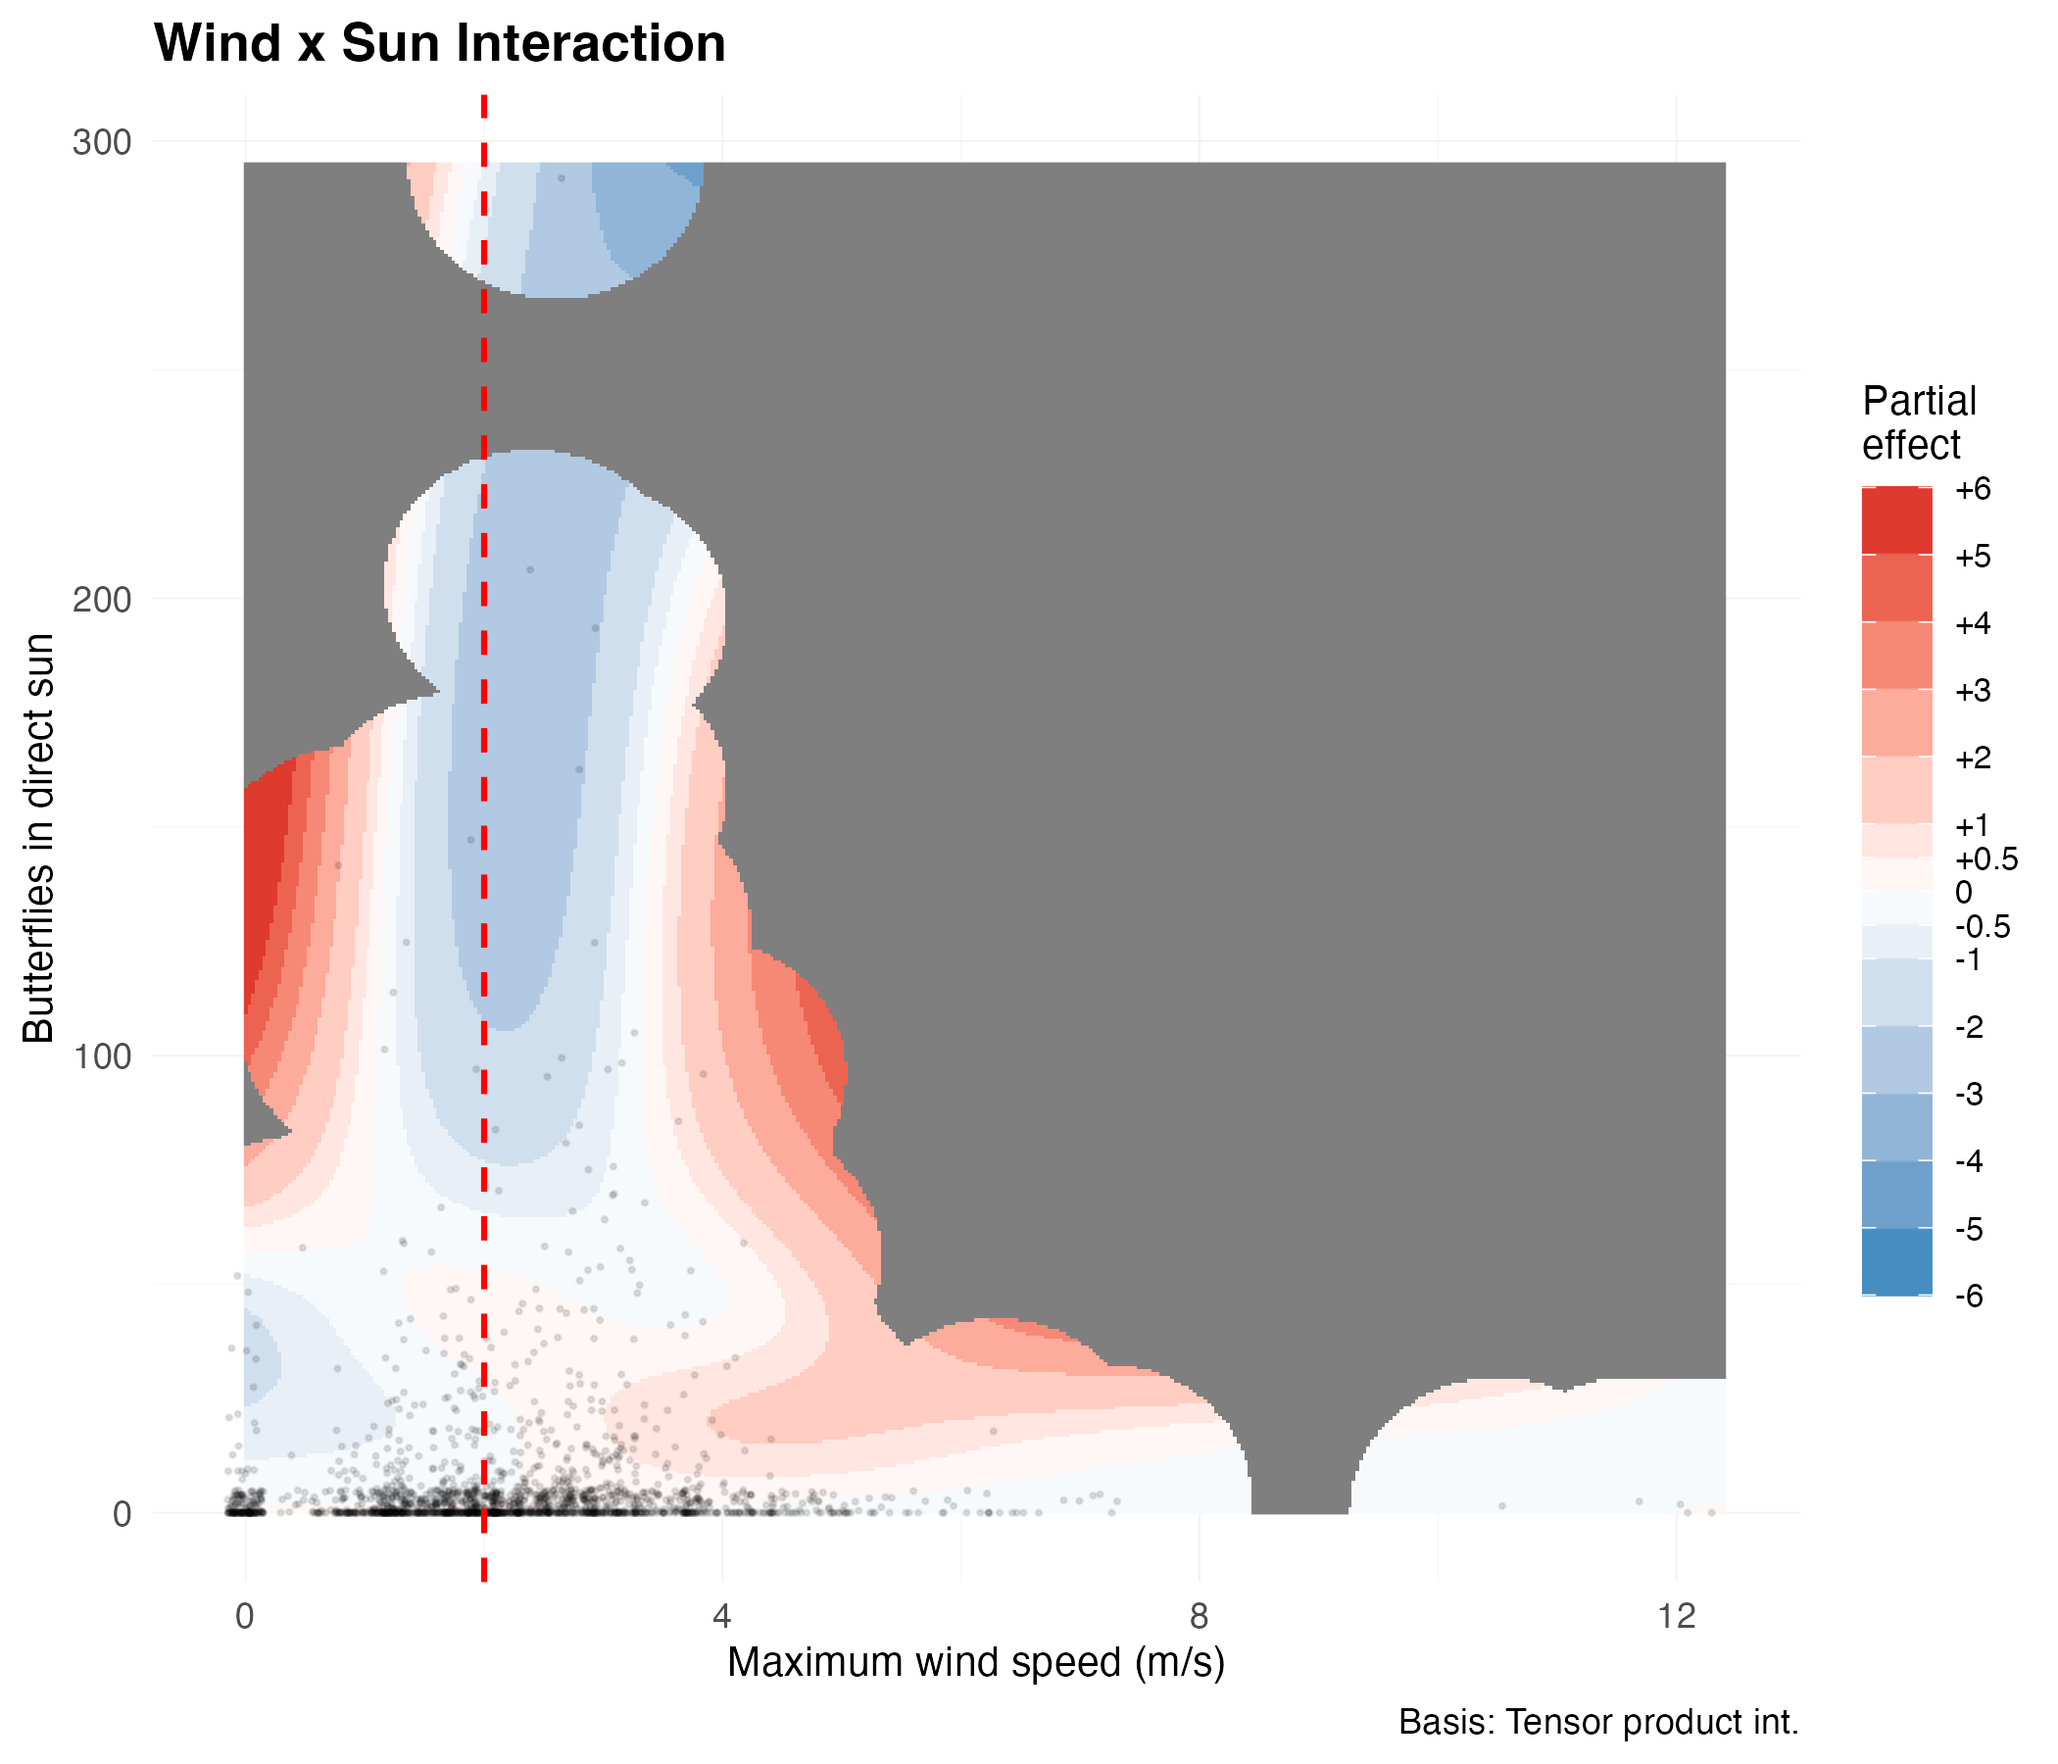
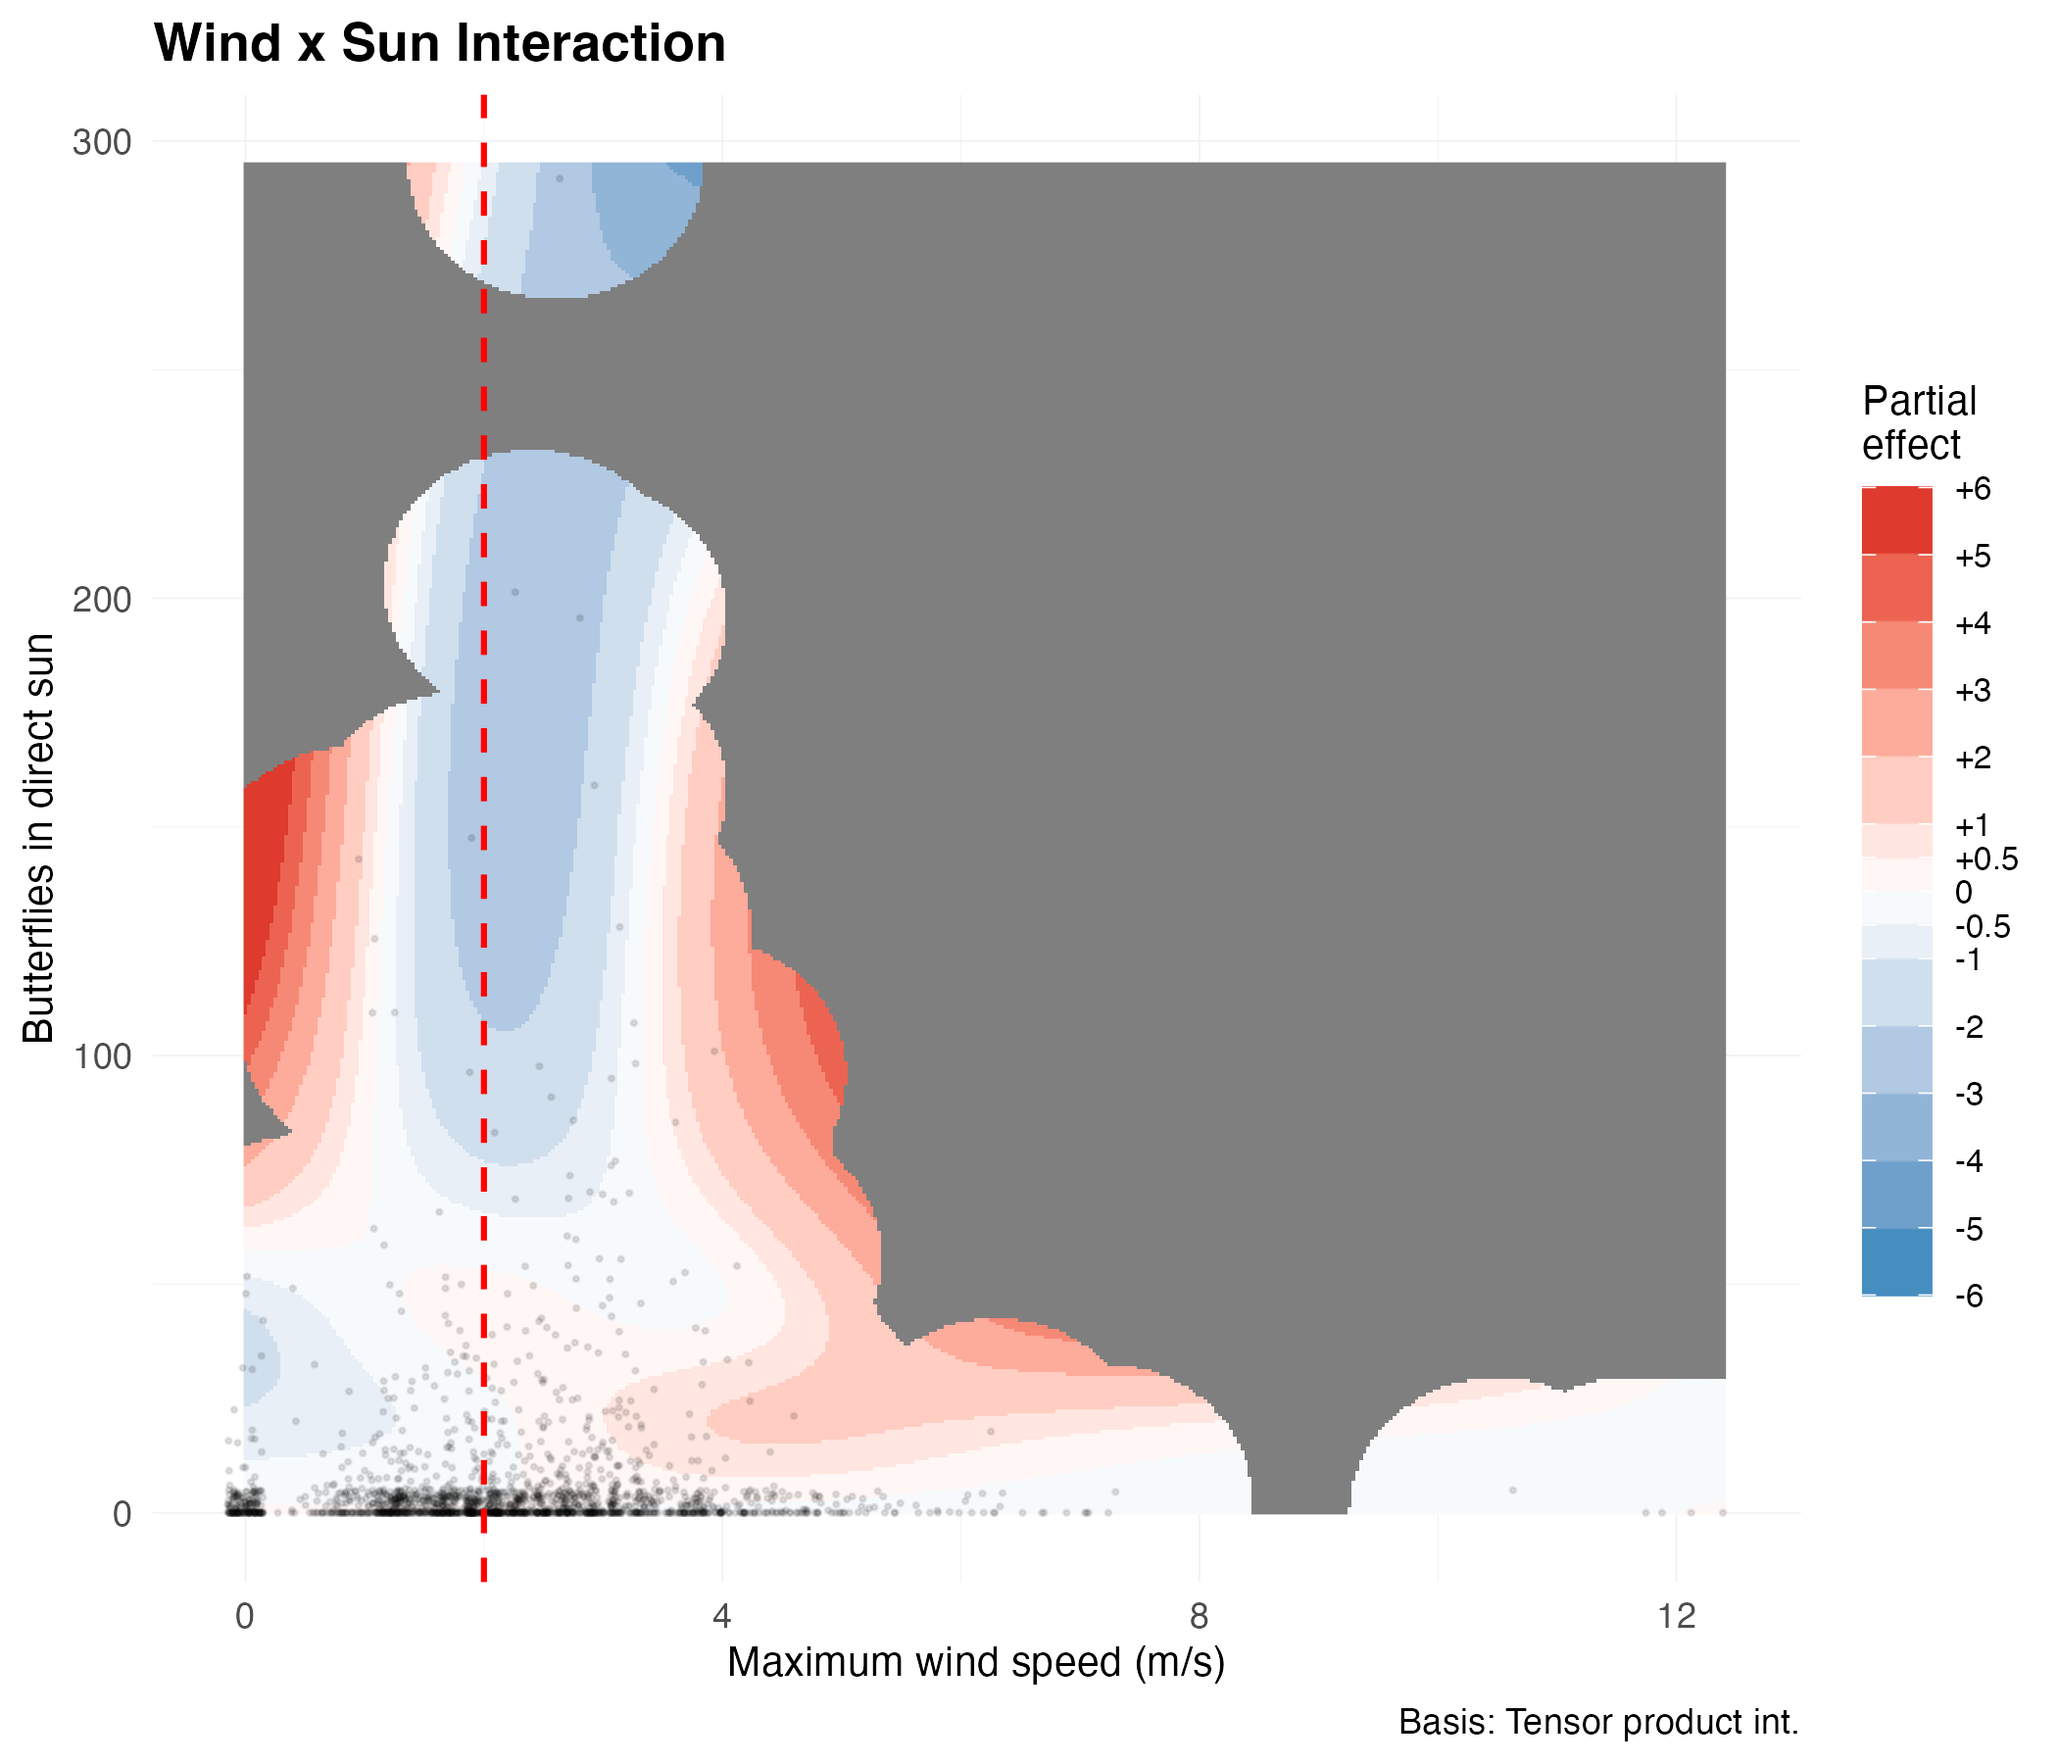
fix bullet points in tables

Changed region(s): [[0.0929, 0.7156, 0.4952, 0.8711]]

diff --git a/thesis_exports/30_min/tables/top5_models.tex b/thesis_exports/30_min/tables/top5_models.tex
@@ -6,11 +6,11 @@
 \toprule
 Model & Terms & AIC & Delta_AIC & Weight & Wind_p\\
 \midrule
-M50 & \textbullet\ Previous butterfly count\\ \textbullet\ Temperature\\ \textbullet\ Time since sunrise\\ \textbullet\ Interaction (tensor): Maximum wind speed, Butterflies in direct sun & 8074.029 & 0.000 & 0.8579 & 5.55e-05\\
-M23 & \textbullet\ Previous butterfly count\\ \textbullet\ Temperature\\ \textbullet\ Butterflies in direct sun\\ \textbullet\ Time since sunrise & 8077.862 & 3.834 & 0.1262 & NA\\
-M22 & \textbullet\ Previous butterfly count\\ \textbullet\ Temperature (linear)\\ \textbullet\ Butterflies in direct sun\\ \textbullet\ Time since sunrise & 8082.898 & 8.869 & 0.0102 & NA\\
-M24 & \textbullet\ Previous butterfly count\\ \textbullet\ Maximum wind speed\\ \textbullet\ Temperature\\ \textbullet\ Butterflies in direct sun\\ \textbullet\ Time since sunrise & 8084.049 & 10.020 & 0.0057 & 2.18e-01\\
-M52 & \textbullet\ Temperature\\ \textbullet\ Time since sunrise\\ \textbullet\ Interaction (tensor): Maximum wind speed, Butterflies in direct sun & 8092.722 & 18.693 & 0.0001 & 1.13e-05\\
+M50 & Previous butterfly count, Temperature, Time since sunrise, Interaction (tensor): Maximum wind speed, Butterflies in direct sun & 8074.029 & 0.000 & 0.8579 & 5.55e-05\\
+M23 & Previous butterfly count, Temperature, Butterflies in direct sun, Time since sunrise & 8077.862 & 3.834 & 0.1262 & NA\\
+M22 & Previous butterfly count, Temperature (linear), Butterflies in direct sun, Time since sunrise & 8082.898 & 8.869 & 0.0102 & NA\\
+M24 & Previous butterfly count, Maximum wind speed, Temperature, Butterflies in direct sun, Time since sunrise & 8084.049 & 10.020 & 0.0057 & 2.18e-01\\
+M52 & Temperature, Time since sunrise, Interaction (tensor): Maximum wind speed, Butterflies in direct sun & 8092.722 & 18.693 & 0.0001 & 1.13e-05\\
 \bottomrule
 \end{tabular}
 \end{table}

diff --git a/thesis_exports/30_min_threshold/tables/top5_models.tex b/thesis_exports/30_min_threshold/tables/top5_models.tex
@@ -6,11 +6,11 @@
 \toprule
 Model & Terms & AIC & Delta_AIC & Weight & Wind_p\\
 \midrule
-T50 & \textbullet\ Previous butterfly count\\ \textbullet\ Temperature\\ \textbullet\ Time since sunrise\\ \textbullet\ Interaction (tensor): Minutes above 2 m/s, Butterflies in direct sun & 8077.232 & 0.000 & 0.5539 & 0.000102\\
-T23 & \textbullet\ Previous butterfly count\\ \textbullet\ Temperature\\ \textbullet\ Butterflies in direct sun\\ \textbullet\ Time since sunrise & 8077.862 & 0.631 & 0.4041 & NA\\
-T22 & \textbullet\ Previous butterfly count\\ \textbullet\ Temperature (linear)\\ \textbullet\ Butterflies in direct sun\\ \textbullet\ Time since sunrise & 8082.898 & 5.666 & 0.0326 & NA\\
-T24 & \textbullet\ Previous butterfly count\\ \textbullet\ Minutes above 2 m/s\\ \textbullet\ Temperature\\ \textbullet\ Butterflies in direct sun\\ \textbullet\ Time since sunrise & 8085.408 & 8.177 & 0.0093 & 0.372000\\
-T47 & \textbullet\ Temperature\\ \textbullet\ Butterflies in direct sun\\ \textbullet\ Time since sunrise & 8097.296 & 20.065 & 0.0000 & NA\\
+T50 & Previous butterfly count, Temperature, Time since sunrise, Interaction (tensor): Minutes above 2 m/s, Butterflies in direct sun & 8077.232 & 0.000 & 0.5539 & 0.000102\\
+T23 & Previous butterfly count, Temperature, Butterflies in direct sun, Time since sunrise & 8077.862 & 0.631 & 0.4041 & NA\\
+T22 & Previous butterfly count, Temperature (linear), Butterflies in direct sun, Time since sunrise & 8082.898 & 5.666 & 0.0326 & NA\\
+T24 & Previous butterfly count, Minutes above 2 m/s, Temperature, Butterflies in direct sun, Time since sunrise & 8085.408 & 8.177 & 0.0093 & 0.372000\\
+T47 & Temperature, Butterflies in direct sun, Time since sunrise & 8097.296 & 20.065 & 0.0000 & NA\\
 \bottomrule
 \end{tabular}
 \end{table}
